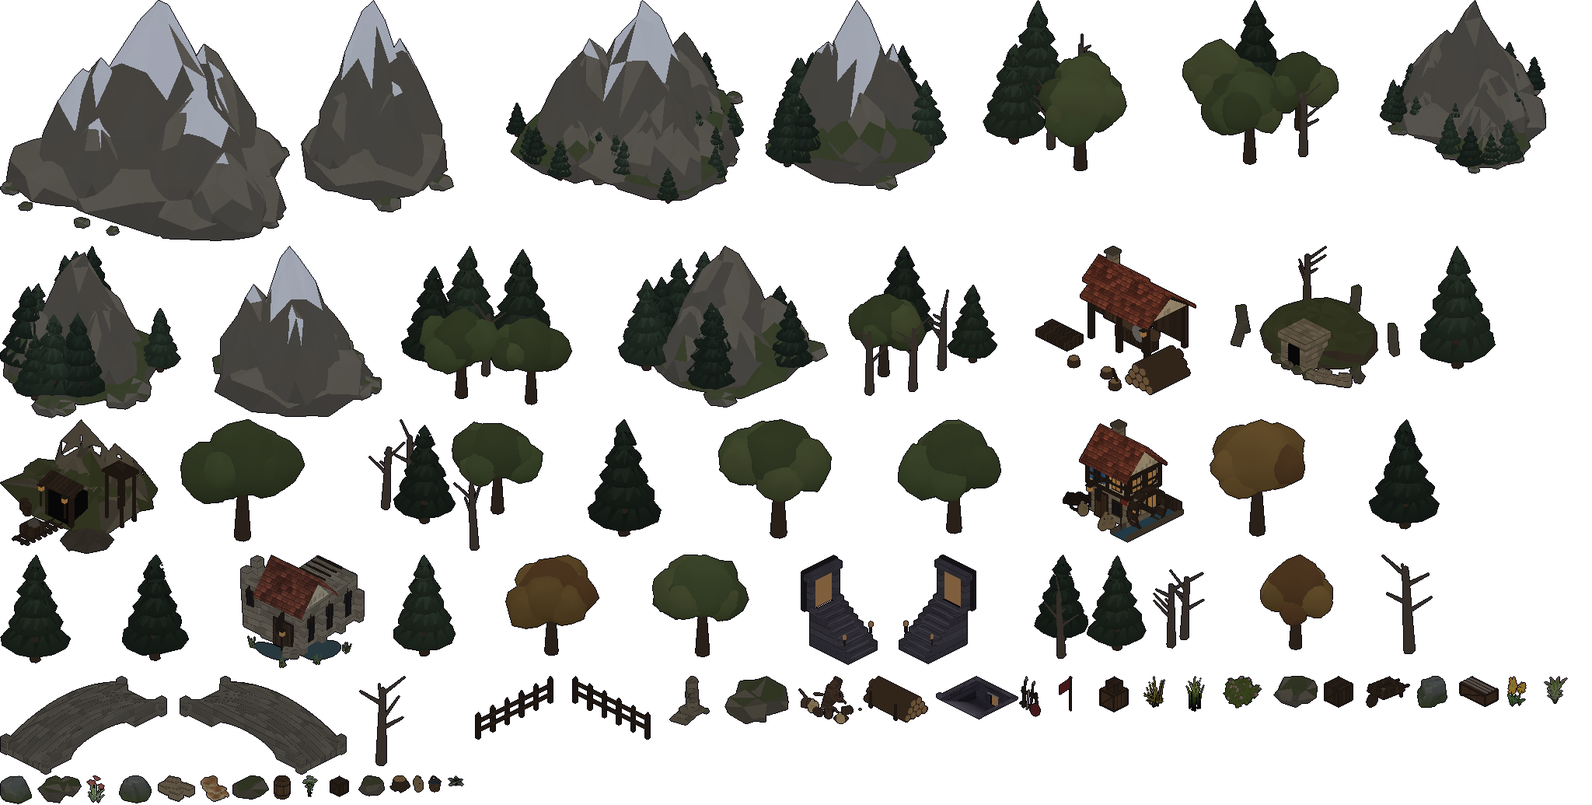
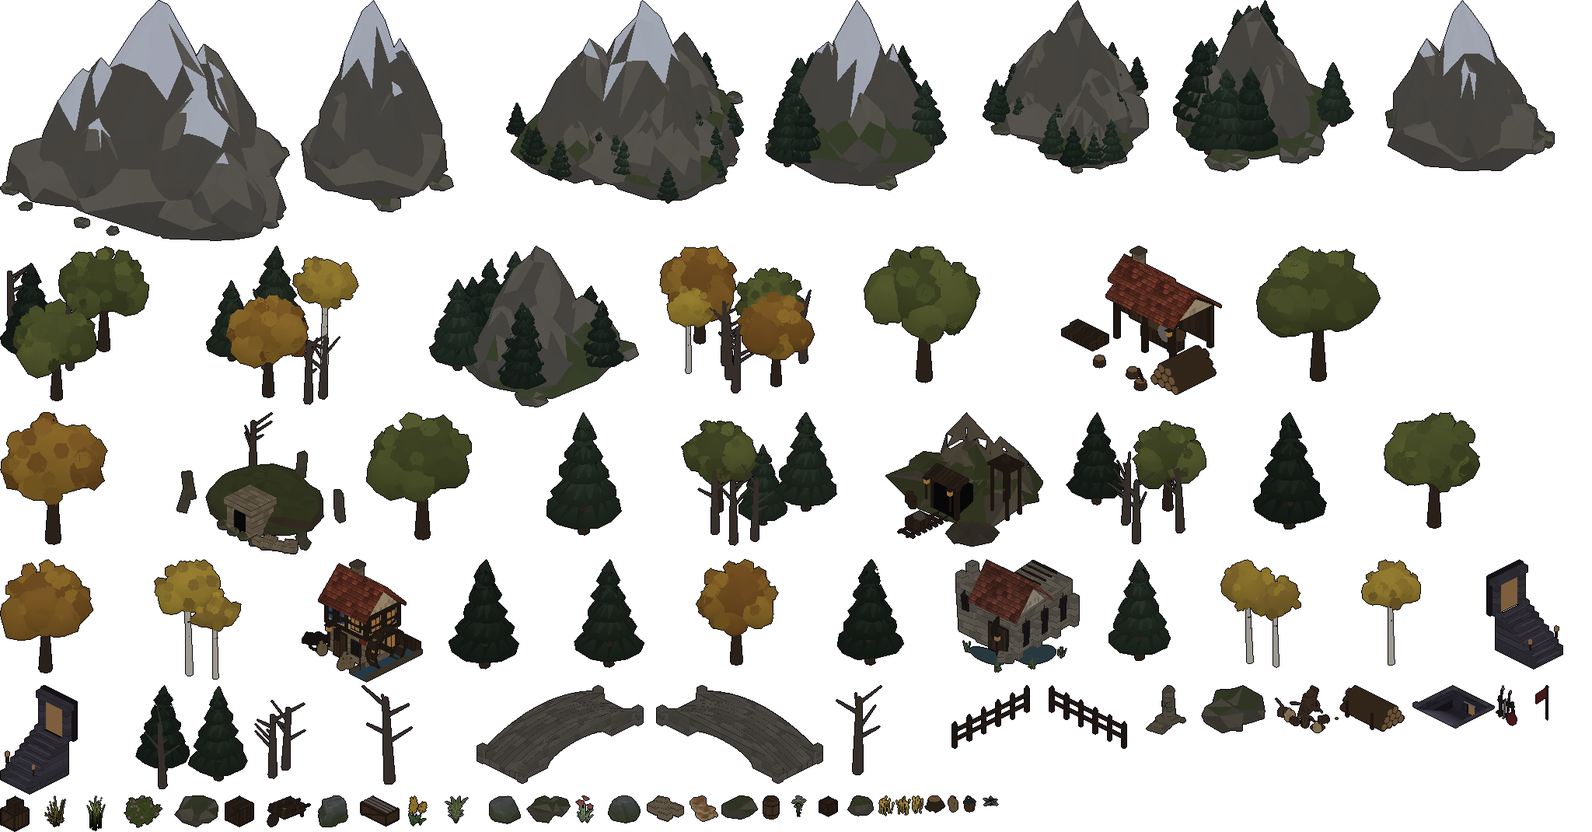
Critic pass 11d: leafy crowns, birches, standing wheat, ochre grass
Broadleaf crowns are a few smooth lobes under ~30 faceted leaf clumps,
toned from a dark underside to a lit top, in olive-to-gold and amber;
birches (pale trunks, gold crowns) as singles and one broadleaf in five
in the groves; wheat tufts in rows on every field's furrows (own stream,
before the undergrowth: 64 on the Vale, 120 in Thornwick). The Vale's
three fields, dropped by pass 10's road rewrite, are restored with a
test. Grass olive toward ochre; the day's saturation grade eased 1.28 ->
1.12 (warm leaves and grass overshot).

Six frames (reference): luminance 0.41-0.49 (0.40), saturation
0.47-0.61 (0.49), colourfulness 0.22-0.29 (0.23), warmth 0.25-0.32
(0.25), woods edge density 3.5 -> 4.1 (4.6). Rubric 5.7 -> 6.2.
npm run check: 263 pass, SMOKE_OK, RENDER_SMOKE_OK.

Claude-Session: https://claude.ai/code/session_015iJE9saRx1hCYJHRMUYeGn

diff --git a/src/sim/envfoot.js b/src/sim/envfoot.js
@@ -1,4 +1,4 @@
 // envfoot.js — GENERATED by tools/actor-lab/bake-env.cjs. Do not edit.
 // Ground footprint of each baked environment sprite, in tiles relative to its
 // origin: [x0, y0, x1, y1]. Used for collision and placement.
-export const ENV_FOOT = {"pine_1":[-4.13,-4.18,4.39,4.34],"pine_2":[-4.81,-4.8,5.12,5],"pine_3":[-4.98,-5.01,5,4.96],"pine_4":[-5.13,-5.38,5.48,5.19],"pine_5":[-4.8,-4.87,4.86,4.58],"pine_6":[-4.76,-4.68,4.81,4.84],"oak_1":[-6.76,-5.9,5.88,5.84],"oak_2":[-5.8,-4.63,4.64,4.88],"oak_3":[-5.69,-5.27,5.8,5.97],"oak_4":[-6.23,-6.82,5.95,6.39],"autumn_1":[-6.59,-6.17,5.5,4.97],"autumn_2":[-4.61,-5.31,5.15,5.55],"autumn_3":[-4.46,-4.55,4.68,4.38],"dead_1":[-2.24,-2.81,2.66,2.62],"dead_2":[-2.56,-1.87,2.98,3.05],"grove_1":[-11.53,-9.43,8.02,10.31],"grove_2":[-10.59,-7.13,5.79,8.69],"grove_3":[-10.28,-8.9,11.4,8.77],"grove_4":[-10.38,-9.21,11.97,9.49],"grove_5":[-9.37,-11.42,6.66,5.03],"grove_6":[-11.39,-10.53,6.01,9.08],"bridge_0":[-3.6,-9.7,3.6,9.7],"bridge_90":[-9.7,-3.6,9.7,3.6],"rock_A":[-2.18,-2.03,2.19,2.41],"rock_B":[-2.03,-2.12,2.06,1.97],"rock_C":[-3.06,-3.35,3.32,3.55],"rock_D":[-2.7,-3.56,2.22,2.22],"rock_E":[-3.72,-3.84,4.19,6.22],"mountain_A_grass_trees":[-10.67,-10.54,11.17,11.99],"mountain_B_grass_trees":[-12.25,-12.31,11.91,11.79],"mountain_C_grass_trees":[-11.39,-10.97,11.31,12.47],"mountain_A":[-10,-10.64,10.64,10.58],"mountain_B":[-11.58,-11.7,12.29,12.11],"mountain_massif_A":[-37.07,-33.75,43.44,35.17],"mountain_massif_B":[-30.31,-33,30.17,32.15],"mountain_massif_C":[-24.46,-24.21,25.04,24.61],"ruin":[-9.37,-9.66,9.14,6.89],"mine_0":[-11.55,-10.95,8.49,11.1],"lumbermill_90":[-10.3,-7.1,9.4,8.9],"barrel":[-0.89,-0.94,0.89,0.94],"crate_A_big":[-1.12,-1.12,1.12,1.19],"crate_A_small":[-0.72,-0.72,0.72,0.79],"crate_B_big":[-1.12,-1.12,1.12,1.19],"crate_long_A":[-2.02,-1.02,2.02,1.09],"sack":[-0.62,-0.49,1.25,1.36],"wheelbarrow":[-1.32,-2.69,1.32,3.23],"weaponrack":[-1.2,-0.19,2.1,0.81],"bucket_water":[-0.65,-0.65,0.65,0.65],"resource_lumber":[-3.33,-1.78,3.33,2.15],"resource_stone":[-1.7,-1.97,1.75,0.83],"flag_red":[-0.16,-0.12,0.16,1.84],"stump":[-1.06,-1.15,1.12,1.1],"fence_0":[-0.25,-6.05,0.3,6.05],"fence_90":[-6.05,-0.3,6.05,0.25],"stairsup_0":[-2.6,-4.15,2.6,3.1],"stairsup_90":[-4.15,-2.6,3.1,2.6],"stairsdown_0":[-3.38,-3.8,3.38,3.01],"watermill_0":[-6.12,-4.3,5.3,5.38],"chapelruin_0":[-6.67,-5.7,7.63,8.85],"milestone_0":[-1.68,-1.61,1.66,3.1],"wagon_0":[-4.9,-1.55,4.09,3.62],"ug_bush":[-2.03,-2.14,2.18,2.18],"ug_fern":[-3.54,-3.27,3.7,3.52],"ug_plant":[-1.95,-2.32,2.09,2.06],"ug_flowers_1":[-0.86,-1.12,1.22,1.11],"ug_flowers_2":[-1.3,-0.89,1.19,1.02],"ug_grass_1":[-1.48,-1.64,1.6,1.55],"ug_grass_2":[-0.81,-0.96,0.98,1.03],"ug_clover":[-1,-0.94,0.7,0.73],"ug_mushroom":[-1.62,-0.82,1.79,1.94],"rock_F":[-2.07,-1.38,1.8,2.21],"rock_G":[-2.06,-1.39,1.6,1.58],"rock_H":[-2.19,-1.07,1.91,3.1],"vale_tavern_1":[-8.45,-6.72,7.25,6.3],"vale_inn_1":[-7.1,-4.4,10.48,5.1],"vale_shop_1":[-4.2,-4.2,5.72,5.07],"vale_temple_1":[-6.7,-6.95,4.5,7.84],"vale_well_1":[-2.1,-1.8,2.1,1.8],"vale_house_1":[-4.7,-4,4.7,4],"vale_house_2":[-4.7,-4,4.7,4],"vale_house_3":[-4.7,-4,4.7,4],"vale_housex_1":[-4,-4.7,4,4.7],"vale_housex_2":[-4,-4.7,4,4.7],"vale_farm_1":[-9.63,-5.7,9.77,7.63],"vale_farmx_1":[-5.7,-9.77,7.63,9.63],"vale_keep_1":[-6.37,-6.45,6.37,6.45],"vale_wall_1":[-11,-1.7,11,2.1],"vale_smith_1":[-4.3,-5.36,4.8,5.2],"vale_curtain_1":[-10.09,-2,10.15,2],"vale_curtainy_1":[-2,-10.15,2,10.09],"vale_tower_1":[-4.1,-4.1,4.1,4.1],"vale_gatehousey_1":[-3,-7.5,3,7.5],"fens_tavern_1":[-8.45,-6.72,7.25,6.3],"fens_inn_1":[-7.1,-4.4,10.48,5.1],"fens_shop_1":[-4.2,-4.2,5.72,5.07],"fens_temple_1":[-6.7,-6.95,4.5,7.84],"fens_well_1":[-2.1,-1.8,2.1,1.8],"fens_house_1":[-4.7,-4,4.7,4],"fens_house_2":[-4.7,-4,4.7,4],"fens_house_3":[-4.7,-4,4.7,4],"fens_housex_1":[-4,-4.7,4,4.7],"fens_housex_2":[-4,-4.7,4,4.7],"fens_farm_1":[-9.63,-5.7,9.77,7.63],"fens_farmx_1":[-5.7,-9.77,7.63,9.63],"fens_keep_1":[-6.37,-6.45,6.37,6.45],"fens_wall_1":[-11,-1.7,11,2.1],"fens_smith_1":[-4.3,-5.36,4.8,5.2],"fens_curtain_1":[-10,-1.6,10.3,1.6],"fens_curtainy_1":[-1.6,-10.3,1.6,10],"fens_tower_1":[-3.7,-3.8,3.7,3.8],"fens_gatehousey_1":[-3,-7,5.7,7],"reach_tavern_1":[-8.45,-6.72,7.25,6.3],"reach_inn_1":[-7.1,-4.4,10.48,5.1],"reach_shop_1":[-4.2,-4.2,5.72,5.07],"reach_temple_1":[-6.7,-6.95,4.5,7.84],"reach_well_1":[-2.1,-1.8,2.1,1.8],"reach_house_1":[-4.7,-4,4.7,4],"reach_house_2":[-4.7,-4,4.7,4],"reach_house_3":[-4.7,-4,4.7,4],"reach_housex_1":[-4,-4.7,4,4.7],"reach_housex_2":[-4,-4.7,4,4.7],"reach_farm_1":[-9.63,-5.7,9.77,7.63],"reach_farmx_1":[-5.7,-9.77,7.63,9.63],"reach_keep_1":[-6.37,-6.45,6.37,6.45],"reach_wall_1":[-11,-1.7,11,2.1],"reach_smith_1":[-4.3,-5.36,4.8,5.2],"reach_curtain_1":[-10,-1.6,10.3,1.6],"reach_curtainy_1":[-1.6,-10.3,1.6,10],"reach_tower_1":[-3.7,-3.8,3.7,3.8],"reach_gatehousey_1":[-3,-7,5.7,7],"heights_tavern_1":[-8.45,-6.72,7.25,6.3],"heights_inn_1":[-7.1,-4.4,10.48,5.1],"heights_shop_1":[-4.2,-4.2,5.72,5.07],"heights_temple_1":[-6.7,-6.95,4.5,7.84],"heights_well_1":[-2.1,-1.8,2.1,1.8],"heights_house_1":[-4.7,-4,4.7,4],"heights_house_2":[-4.7,-4,4.7,4],"heights_house_3":[-4.7,-4,4.7,4],"heights_housex_1":[-4,-4.7,4,4.7],"heights_housex_2":[-4,-4.7,4,4.7],"heights_farm_1":[-9.63,-5.7,9.77,7.63],"heights_farmx_1":[-5.7,-9.77,7.63,9.63],"heights_keep_1":[-6.37,-6.45,6.37,6.45],"heights_wall_1":[-11,-1.7,11,2.1],"heights_smith_1":[-4.3,-5.36,4.8,5.2],"heights_curtain_1":[-10,-1.6,10.3,1.6],"heights_curtainy_1":[-1.6,-10.3,1.6,10],"heights_tower_1":[-3.7,-3.8,3.7,3.8],"heights_gatehousey_1":[-3,-7,5.7,7]};
+export const ENV_FOOT = {"pine_1":[-4.13,-4.18,4.39,4.34],"pine_2":[-4.81,-4.8,5.12,5],"pine_3":[-4.98,-5.01,5,4.96],"pine_4":[-5.13,-5.38,5.48,5.19],"pine_5":[-4.8,-4.87,4.86,4.58],"pine_6":[-4.76,-4.68,4.81,4.84],"oak_1":[-6.75,-7.14,6.33,6.1],"oak_2":[-5.79,-6.35,5.76,6.08],"oak_3":[-6.48,-6.65,6.29,5.96],"oak_4":[-6.59,-6.8,6.43,6.89],"autumn_1":[-6.59,-6.88,6.22,6.33],"autumn_2":[-5.57,-5.73,5.51,5.75],"autumn_3":[-5.1,-5.47,5.08,5.06],"birch_1":[-4.93,-3.24,2.73,4.21],"birch_2":[-4.81,-4.29,4.6,3.62],"birch_3":[-5.17,-3.57,4.88,4.81],"dead_1":[-2.24,-2.81,2.66,2.62],"dead_2":[-2.56,-1.87,2.98,3.05],"grove_1":[-9.86,-8.38,6.88,6.28],"grove_2":[-10.59,-7.13,5.79,8.69],"grove_3":[-10.94,-8,11.15,9.36],"grove_4":[-10.79,-8.1,8.04,10.5],"grove_5":[-9.42,-11.89,11.01,10.13],"grove_6":[-7.78,-9.39,8.91,8.76],"bridge_0":[-3.6,-9.7,3.6,9.7],"bridge_90":[-9.7,-3.6,9.7,3.6],"rock_A":[-2.18,-2.03,2.19,2.41],"rock_B":[-2.03,-2.12,2.06,1.97],"rock_C":[-3.06,-3.35,3.32,3.55],"rock_D":[-2.7,-3.56,2.22,2.22],"rock_E":[-3.72,-3.84,4.19,6.22],"mountain_A_grass_trees":[-10.67,-10.54,11.17,11.99],"mountain_B_grass_trees":[-12.25,-12.31,11.91,11.79],"mountain_C_grass_trees":[-11.39,-10.97,11.31,12.47],"mountain_A":[-10,-10.64,10.64,10.58],"mountain_B":[-11.58,-11.7,12.29,12.11],"mountain_massif_A":[-37.07,-33.75,43.44,35.17],"mountain_massif_B":[-30.31,-33,30.17,32.15],"mountain_massif_C":[-24.46,-24.21,25.04,24.61],"ruin":[-9.37,-9.66,9.14,6.89],"mine_0":[-11.55,-10.95,8.49,11.1],"lumbermill_90":[-10.3,-7.1,9.4,8.9],"barrel":[-0.89,-0.94,0.89,0.94],"crate_A_big":[-1.12,-1.12,1.12,1.19],"crate_A_small":[-0.72,-0.72,0.72,0.79],"crate_B_big":[-1.12,-1.12,1.12,1.19],"crate_long_A":[-2.02,-1.02,2.02,1.09],"sack":[-0.62,-0.49,1.25,1.36],"wheelbarrow":[-1.32,-2.69,1.32,3.23],"weaponrack":[-1.2,-0.19,2.1,0.81],"bucket_water":[-0.65,-0.65,0.65,0.65],"resource_lumber":[-3.33,-1.78,3.33,2.15],"resource_stone":[-1.7,-1.97,1.75,0.83],"flag_red":[-0.16,-0.12,0.16,1.84],"stump":[-1.06,-1.15,1.12,1.1],"fence_0":[-0.25,-6.05,0.3,6.05],"fence_90":[-6.05,-0.3,6.05,0.25],"stairsup_0":[-2.6,-4.15,2.6,3.1],"stairsup_90":[-4.15,-2.6,3.1,2.6],"stairsdown_0":[-3.38,-3.8,3.38,3.01],"watermill_0":[-6.12,-4.3,5.3,5.38],"chapelruin_0":[-6.67,-5.7,7.63,8.85],"milestone_0":[-1.68,-1.61,1.66,3.1],"wagon_0":[-4.9,-1.55,4.09,3.62],"ug_bush":[-2.03,-2.14,2.18,2.18],"ug_fern":[-3.54,-3.27,3.7,3.52],"ug_plant":[-1.95,-2.32,2.09,2.06],"ug_flowers_1":[-0.86,-1.12,1.22,1.11],"ug_flowers_2":[-1.3,-0.89,1.19,1.02],"ug_grass_1":[-1.48,-1.64,1.6,1.55],"ug_grass_2":[-0.81,-0.96,0.98,1.03],"ug_clover":[-1,-0.94,0.7,0.73],"ug_mushroom":[-1.62,-0.82,1.79,1.94],"rock_F":[-2.07,-1.38,1.8,2.21],"rock_G":[-2.06,-1.39,1.6,1.58],"rock_H":[-2.19,-1.07,1.91,3.1],"wheat_1":[-0.69,-0.8,0.76,0.68],"wheat_2":[-0.71,-0.84,0.73,0.93],"wheat_3":[-0.9,-0.69,0.81,0.84],"vale_tavern_1":[-8.45,-6.72,7.25,6.3],"vale_inn_1":[-7.1,-4.4,10.48,5.1],"vale_shop_1":[-4.2,-4.2,5.72,5.07],"vale_temple_1":[-6.7,-6.95,4.5,7.84],"vale_well_1":[-2.1,-1.8,2.1,1.8],"vale_house_1":[-4.7,-4,4.7,4],"vale_house_2":[-4.7,-4,4.7,4],"vale_house_3":[-4.7,-4,4.7,4],"vale_housex_1":[-4,-4.7,4,4.7],"vale_housex_2":[-4,-4.7,4,4.7],"vale_farm_1":[-9.63,-5.7,9.77,7.63],"vale_farmx_1":[-5.7,-9.77,7.63,9.63],"vale_keep_1":[-6.37,-6.45,6.37,6.45],"vale_wall_1":[-11,-1.7,11,2.1],"vale_smith_1":[-4.3,-5.36,4.8,5.2],"vale_curtain_1":[-10.09,-2,10.15,2],"vale_curtainy_1":[-2,-10.15,2,10.09],"vale_tower_1":[-4.1,-4.1,4.1,4.1],"vale_gatehousey_1":[-3,-7.5,3,7.5],"fens_tavern_1":[-8.45,-6.72,7.25,6.3],"fens_inn_1":[-7.1,-4.4,10.48,5.1],"fens_shop_1":[-4.2,-4.2,5.72,5.07],"fens_temple_1":[-6.7,-6.95,4.5,7.84],"fens_well_1":[-2.1,-1.8,2.1,1.8],"fens_house_1":[-4.7,-4,4.7,4],"fens_house_2":[-4.7,-4,4.7,4],"fens_house_3":[-4.7,-4,4.7,4],"fens_housex_1":[-4,-4.7,4,4.7],"fens_housex_2":[-4,-4.7,4,4.7],"fens_farm_1":[-9.63,-5.7,9.77,7.63],"fens_farmx_1":[-5.7,-9.77,7.63,9.63],"fens_keep_1":[-6.37,-6.45,6.37,6.45],"fens_wall_1":[-11,-1.7,11,2.1],"fens_smith_1":[-4.3,-5.36,4.8,5.2],"fens_curtain_1":[-10,-1.6,10.3,1.6],"fens_curtainy_1":[-1.6,-10.3,1.6,10],"fens_tower_1":[-3.7,-3.8,3.7,3.8],"fens_gatehousey_1":[-3,-7,5.7,7],"reach_tavern_1":[-8.45,-6.72,7.25,6.3],"reach_inn_1":[-7.1,-4.4,10.48,5.1],"reach_shop_1":[-4.2,-4.2,5.72,5.07],"reach_temple_1":[-6.7,-6.95,4.5,7.84],"reach_well_1":[-2.1,-1.8,2.1,1.8],"reach_house_1":[-4.7,-4,4.7,4],"reach_house_2":[-4.7,-4,4.7,4],"reach_house_3":[-4.7,-4,4.7,4],"reach_housex_1":[-4,-4.7,4,4.7],"reach_housex_2":[-4,-4.7,4,4.7],"reach_farm_1":[-9.63,-5.7,9.77,7.63],"reach_farmx_1":[-5.7,-9.77,7.63,9.63],"reach_keep_1":[-6.37,-6.45,6.37,6.45],"reach_wall_1":[-11,-1.7,11,2.1],"reach_smith_1":[-4.3,-5.36,4.8,5.2],"reach_curtain_1":[-10,-1.6,10.3,1.6],"reach_curtainy_1":[-1.6,-10.3,1.6,10],"reach_tower_1":[-3.7,-3.8,3.7,3.8],"reach_gatehousey_1":[-3,-7,5.7,7],"heights_tavern_1":[-8.45,-6.72,7.25,6.3],"heights_inn_1":[-7.1,-4.4,10.48,5.1],"heights_shop_1":[-4.2,-4.2,5.72,5.07],"heights_temple_1":[-6.7,-6.95,4.5,7.84],"heights_well_1":[-2.1,-1.8,2.1,1.8],"heights_house_1":[-4.7,-4,4.7,4],"heights_house_2":[-4.7,-4,4.7,4],"heights_house_3":[-4.7,-4,4.7,4],"heights_housex_1":[-4,-4.7,4,4.7],"heights_housex_2":[-4,-4.7,4,4.7],"heights_farm_1":[-9.63,-5.7,9.77,7.63],"heights_farmx_1":[-5.7,-9.77,7.63,9.63],"heights_keep_1":[-6.37,-6.45,6.37,6.45],"heights_wall_1":[-11,-1.7,11,2.1],"heights_smith_1":[-4.3,-5.36,4.8,5.2],"heights_curtain_1":[-10,-1.6,10.3,1.6],"heights_curtainy_1":[-1.6,-10.3,1.6,10],"heights_tower_1":[-3.7,-3.8,3.7,3.8],"heights_gatehousey_1":[-3,-7,5.7,7]};

diff --git a/tools/actor-lab/buildkit.js b/tools/actor-lab/buildkit.js
@@ -520,7 +520,8 @@ const TYPES = {
 // ── trees (our own, to replace the stock cones): pine, broadleaf, dead, groves ──
 const flat = (color) => new THREE.MeshStandardMaterial({ color: new THREE.Color(color), flatShading: true });
 const jitter = (geo, r, amt) => { const p = geo.attributes.position; for (let i = 0; i < p.count; i++) p.setXYZ(i, p.getX(i) + (r() - 0.5) * amt, p.getY(i) + (r() - 0.5) * amt * 0.6, p.getZ(i) + (r() - 0.5) * amt); geo.computeVertexNormals(); return geo; };
-const TREE_COL = { pine: ['#1f2b22', '#243226', '#2a392b'], leaf: ['#3a4527', '#42502c', '#4b5530'], autumn: ['#6a4f25', '#76582a', '#5e3f21'], bark: '#3a2c22', dead: '#4a4038' };
+// leaf: olive toward gold, autumn: amber and rust, birch: gold (pass 11d: the reference's autumn harmony)
+const TREE_COL = { pine: ['#1f2b22', '#243226', '#2a392b'], leaf: ['#4a5226', '#56602b', '#646a30'], autumn: ['#9a6a22', '#a87a26', '#8a5a1e'], birch: ['#a8872a', '#b8962e', '#97762a'], bark: '#3a2c22', dead: '#4a4038' };
 // Foliage (critic pass 2: faceted gem-like crowns clashed with the buildings): closed,
 // softly-shaded masses. Geometry is vertex-merged BEFORE jittering so faces never crack
 // apart, shaded smooth, and vertex-coloured from a dark self-shadowed underside to a lighter
@@ -555,12 +556,35 @@ function broadleaf(g, r, x, z, sc = 1, autumn = false) {
   const t = new THREE.Group(); t.position.set(x, 0, z); t.scale.setScalar(sc); g.add(t);
   const trunk = new THREE.Mesh(new THREE.CylinderGeometry(0.034, 0.064, 0.44, 7), flat(TREE_COL.bark)); trunk.position.y = 0.22; t.add(trunk);
   for (const a of [0.6, 2.7, 4.6]) { const b = new THREE.Mesh(new THREE.CylinderGeometry(0.012, 0.024, 0.2, 5), flat(TREE_COL.bark)); b.position.set(Math.cos(a) * 0.05, 0.44, Math.sin(a) * 0.05); b.rotation.set(Math.sin(a) * 0.7, 0, -Math.cos(a) * 0.7); t.add(b); }
-  const pal = autumn ? TREE_COL.autumn : TREE_COL.leaf, n = 7 + ((r() * 4) | 0);
-  for (let i = 0; i < n; i++) {                            // a cloud of rounded clumps: big core, smaller lobes around and on top
-    const a = (i / n) * Math.PI * 2 + r(), rr = i === 0 ? 0 : 0.17 + r() * 0.1, size = i === 0 ? 0.3 : 0.15 + r() * 0.09;   // a broad crown, not a lollipop
+  leafCrown(t, r, autumn ? TREE_COL.autumn : TREE_COL.leaf, 0.66, 0.3, 7 + ((r() * 4) | 0));
+}
+// A crown of leaf clusters (critic pass 11d, scored against the owner's reference: our crowns were a few smooth
+// blobs; its are many small leaf clumps, each lit on top and dark beneath). A few smooth lobes still give the
+// mass; over them, faceted clumps (icosahedra, one flat normal a face) toned from a dark underside to a lit crown.
+const leafMat = new THREE.MeshStandardMaterial({ vertexColors: true, flatShading: true, roughness: 1 });
+function leafCrown(t, r, pal, cy, R, lobes, clumps = 30) {
+  for (let i = 0; i < lobes; i++) {                        // the mass: a broad core, lobes around and on top
+    const a = (i / lobes) * Math.PI * 2 + r(), rr = i === 0 ? 0 : R * (0.55 + r() * 0.35), size = i === 0 ? R : R * (0.5 + r() * 0.3);
     const b = new THREE.Mesh(foliage(new THREE.IcosahedronGeometry(size, 1), r, size * 0.22, pal[(r() * 3) | 0]), foliageMat);
-    b.position.set(Math.cos(a) * rr, 0.6 + (i === 0 ? 0.1 : r() * 0.18 - 0.06), Math.sin(a) * rr); t.add(b);
+    b.position.set(Math.cos(a) * rr, cy + (i === 0 ? R * 0.3 : r() * R * 0.6 - R * 0.2), Math.sin(a) * rr); t.add(b);
   }
+  for (let i = 0; i < clumps; i++) {                       // the clumps, over the mass's skin (not underneath: unseen)
+    const u = r() * 1.5 - 0.5, a = r() * Math.PI * 2, ring = Math.sqrt(Math.max(0, 1 - u * u)), size = R * (0.2 + r() * 0.14);
+    const px = Math.cos(a) * ring * R * 1.2, py = cy + R * 0.3 + u * R * 1.05, pz = Math.sin(a) * ring * R * 1.2;
+    const geo = new THREE.IcosahedronGeometry(size, 0), p = geo.attributes.position, col = new Float32Array(p.count * 3);
+    const c = new THREE.Color(pal[(r() * 3) | 0]), lit = 0.7 + 0.75 * Math.min(1, Math.max(0, (u + 0.5) / 1.5)) * (0.9 + r() * 0.2);
+    for (let v = 0; v < p.count; v++) { p.setXYZ(v, p.getX(v) * (0.85 + r() * 0.3), p.getY(v) * (0.8 + r() * 0.3), p.getZ(v) * (0.85 + r() * 0.3)); col[v * 3] = c.r * lit; col[v * 3 + 1] = c.g * lit; col[v * 3 + 2] = c.b * lit; }
+    geo.setAttribute('color', new THREE.BufferAttribute(col, 3)); geo.computeVertexNormals();
+    const m = new THREE.Mesh(geo, leafMat); m.position.set(px, py, pz); m.rotation.set(r() * 3, r() * 3, r() * 3); t.add(m);
+  }
+}
+// A birch (pass 11d: the reference's white trunks): slim, a pale bark with dark marks, a light crown, gold in autumn.
+function birch(g, r, x, z, sc = 1, autumn = true) {
+  const t = new THREE.Group(); t.position.set(x, 0, z); t.scale.setScalar(sc); g.add(t);
+  const bark = flat('#d9d4c6'), mark = flat('#2e2a26');
+  const trunk = new THREE.Mesh(new THREE.CylinderGeometry(0.018, 0.03, 0.72, 6), bark); trunk.position.y = 0.36; trunk.rotation.z = (r() - 0.5) * 0.12; t.add(trunk);
+  for (let i = 0; i < 5; i++) { const k = new THREE.Mesh(new THREE.BoxGeometry(0.034, 0.012, 0.034), mark); k.position.set(0, 0.1 + i * 0.12 + r() * 0.04, 0); k.rotation.y = r() * 3; t.add(k); }
+  leafCrown(t, r, autumn ? TREE_COL.birch : TREE_COL.leaf, 0.74, 0.19, 4, 22);
 }
 function deadTree(g, r, x, z, sc = 1) {
   const t = new THREE.Group(); t.position.set(x, 0, z); t.scale.setScalar(sc); g.add(t);
@@ -573,6 +597,7 @@ const TREES = {
   oak: (g, r) => broadleaf(g, r, 0, 0, 1.15 + r() * 0.3),
   autumn: (g, r) => broadleaf(g, r, 0, 0, 1.1 + r() * 0.3, true),
   dead: (g, r) => deadTree(g, r, 0, 0, 1.2 + r() * 0.2),
+  birch: (g, r) => { birch(g, r, -0.12, 0.05, 1.2 + r() * 0.2); if (r() < 0.7) birch(g, r, 0.16, -0.1, 0.95 + r() * 0.2); },   // a pair, as they grow
   // a clump of 5–8 mixed trees. Critic pass 10: trees set inside each other's crowns baked a pine's dark tiers
   // through an oak's crown, so each keeps its crown's room (a pine 0.29 × scale, a broadleaf 0.42 × scale), and
   // the pines stand toward the back (−x −z: away from the camera), the broadleaves in front
@@ -585,7 +610,7 @@ const TREES = {
       if (kind === 'pine' && x + z > 0.2) { x -= 0.35; z -= 0.35; }                 // pines to the back
       if (placed.some((q) => Math.hypot(q.x - x, q.z - z) < (q.rad + rad) * 0.85)) continue;
       placed.push({ x, z, rad }); i++;
-      if (kind === 'pine') pine(g, r, x, z, sc); else if (kind === 'leaf') broadleaf(g, r, x, z, sc, r() < 0.3); else deadTree(g, r, x, z, 1);
+      if (kind === 'pine') pine(g, r, x, z, sc); else if (kind === 'leaf') { const k2 = r(); if (k2 < 0.2) birch(g, r, x, z, sc * 1.1); else broadleaf(g, r, x, z, sc, k2 < 0.5); } else deadTree(g, r, x, z, 1);
     }
   },
 };
@@ -681,7 +706,20 @@ function bridgeMesh(r) {
   for (const sz of [-1, 1]) for (const sx of [-1, 1]) box(0.08, 0.2, 0.08, stone, sx * (W / 2 + 0.01), 0, sz * (L - 0.02), g);   // end posts
   return g;
 }
+// A tuft of wheat (critic pass 11d: the reference's fields are volumes of stalks, ours flat stripes): stalks leaning
+// a little, each with its ear, toned from straw at the foot to gold at the ears.
+function wheatMesh(r, v) {
+  const g = new THREE.Group(), n = 16 + v * 3, straw = flat('#9a8442'), ears = ['#c9a646', '#d6b552', '#b8933c'].map((c) => flat(c));
+  for (let i = 0; i < n; i++) {
+    const a = r() * 6.28, d = Math.sqrt(r()) * 0.07, h = 0.1 + r() * 0.05, lean = (r() - 0.5) * 0.35;
+    const st = new THREE.Group(); st.position.set(Math.cos(a) * d, 0, Math.sin(a) * d); st.rotation.set(lean, r() * 3, lean * 0.6); g.add(st);
+    const stalk = new THREE.Mesh(new THREE.CylinderGeometry(0.003, 0.004, h, 3), straw); stalk.position.y = h / 2; st.add(stalk);
+    const ear = new THREE.Mesh(new THREE.CylinderGeometry(0.008, 0.006, 0.035, 4), ears[(r() * 3) | 0]); ear.position.y = h + 0.012; st.add(ear);
+  }
+  return g;
+}
 const NATURE = {
+  wheat: (r, v) => wheatMesh(r, v),
   bridge: (r) => bridgeMesh(r),
   rock: (r, v) => { const g = new THREE.Group(), n = [1, 1, 2, 3, 2][v % 5], big = [0.2, 0.14, 0.24, 0.18, 0.32][v % 5];
     for (let i = 0; i < n; i++) { const m = rockMesh(r, big * (i ? 0.55 + r() * 0.3 : 1), 0.55 + r() * 0.25); m.position.x = i ? (r() - 0.5) * big * 2.2 : 0; m.position.z = i ? (r() - 0.5) * big * 2.2 : 0; m.rotation.y = r() * 6; g.add(m); }

diff --git a/src/sim/outdoor.js b/src/sim/outdoor.js
@@ -175,7 +175,7 @@ function putWall(o, id, alongX, at, a, b) {
 }
 function putProp(o, kind, x, y) { o.props.set(Math.floor(x) + ',' + Math.floor(y), kind); const i = gi(o, x, y); if (i >= 0) o.occ[i] = 1; }
 
-const TREE_SINGLE = ['pine_1', 'pine_2', 'pine_3', 'pine_4', 'pine_5', 'pine_6', 'oak_1', 'oak_2', 'oak_3', 'oak_4', 'autumn_1', 'autumn_2', 'autumn_3', 'dead_1', 'dead_2'];
+const TREE_SINGLE = ['pine_1', 'pine_2', 'pine_3', 'pine_4', 'pine_5', 'pine_6', 'oak_1', 'oak_2', 'oak_3', 'oak_4', 'autumn_1', 'autumn_2', 'autumn_3', 'birch_1', 'birch_2', 'birch_3', 'dead_1', 'dead_2'];   // (birches: critic pass 11d)
 const TREE_CLUSTER = ['grove_1', 'grove_2', 'grove_3', 'grove_4', 'grove_5', 'grove_6'];
 const ROCKS = ['rock_F', 'rock_G', 'rock_H'];        // the nature pack's (docs/nature-pack-proposal.md); rock_A..E stay at the barrows
 // The undergrowth (Quaternius' Stylized Nature MegaKit, CC0): LOW is walked through (flowers, grass, ferns, clover,
@@ -212,6 +212,21 @@ function undergrowth(o, x0, y0, x1, y1, step, density) {
     for (let k = 0, n = 1 + Math.floor(rng() * 3); k < n; k++) {
       const a = (rng() - 0.5) * 2.2 + Math.PI / 4, dist = rad * (0.7 + rng() * 0.5), x = t.x + cos(a) * dist, y = t.y + sin(a) * dist, id = pick(rng, FOOT);
       if (density(x, y) >= 0 && fits(o, id, x, y, 0.1)) put(o, id, x, y, 'none', 0.35);
+    }
+  }
+}
+
+// Wheat on the fields (critic pass 11d: the reference's fields stand up, ours were painted stripes): tufts in rows
+// along the field's furrows, walked through. Its own stream; placed before the undergrowth, which then grows round it.
+const WHEAT = ['wheat_1', 'wheat_2', 'wheat_3'];
+function wheat(o) {
+  const rng = mulberry32(streamSeed(o.seed, 4416));
+  for (const f of o.fields) {
+    const X = f.axis === 'x', rows = X ? f.y1 - f.y0 : f.x1 - f.x0, cols = X ? f.x1 - f.x0 : f.y1 - f.y0;
+    for (let r0 = 0.75; r0 < rows - 0.5; r0 += 1.5) for (let c0 = 0.8; c0 < cols - 0.5; c0 += 1.25) {   // a row on each furrow's crest (outdoorpaint: 1.5 apart)
+      const x = X ? f.x0 + c0 : f.x0 + r0, y = X ? f.y0 + r0 : f.y0 + c0;
+      const jx = x + (rng() - 0.5) * 0.4, jy = y + (rng() - 0.5) * 0.25, id = pick(rng, WHEAT);
+      if (fits(o, id, jx, jy, 0)) put(o, id, jx, jy, 'none');
     }
   }
 }
@@ -309,6 +324,7 @@ function buildTown(seed, region) {
     return n > 0.55 && rng() < 0.4 ? pick(rng, TREE_SINGLE) : rng() < 0.05 ? pick(rng, ROCKS) : null;
   });
   forestRing(o, rng, 10);
+  wheat(o);
   // the undergrowth: the walls' verges (in and out), the stream's banks, the gardens, flower patches; never the square
   undergrowth(o, -10, -10, 150, 130, 3, (x, y) => {
     if (hypot(x - o.hub.x, y - o.hub.y) < o.hub.r + 4) return -1;
@@ -404,6 +420,8 @@ function buildOverland(seed) {
     if (!o.aprons.some((a) => hypot(a.x - best[0][0], a.y - best[0][1]) < 3)) o.aprons.push({ x: best[0][0], y: best[0][1], r: Math.max(r.w, best[1].w) / 2 + 1.5 });
   }
   o.roads.push(...ROADS);
+  // the farms' fields (lost in pass 10's road rewrite, restored in 11d)
+  o.fields.push({ x0: 22, y0: 104, x1: 50, y1: 124, axis: 'x' }, { x0: 54, y0: 100, x1: 70, y1: 126, axis: 'y' }, { x0: 26, y0: 174, x1: 46, y1: 196, axis: 'y' });
   finalizeGround(o);
 
   // bridges where roads cross the river
@@ -492,6 +510,7 @@ function buildOverland(seed) {
   }
   scatter(o, trng, 0, 0, 260, 260, 10, (x, y) => (trng() < 0.01 && clear(x, y, 'rock_F') ? pick(trng, ROCKS) : null));
   forestRing(o, rng, 6);
+  wheat(o);
   // the undergrowth: thick at the woods' and forests' edges and along the river's banks, in patches in the meadows;
   // clear of every site and its way in
   const nearWater = (x, y) => { for (const [dx, dy] of [[0, 0], [2.5, 0], [-2.5, 0], [0, 2.5], [0, -2.5]]) { const g = groundAt(o, x + dx, y + dy).g; if (g === G.WATER || g === G.BANK) return true; } return false; };

diff --git a/src/render/daylight.js b/src/render/daylight.js
@@ -32,7 +32,7 @@ export const BLEND_S = 120;                       // two minutes of play from on
 // night keeps its dark.
 export const LOOKS = {
   dawn: { sun: [1.25, 0.88, 0.66], amb: [0.42, 0.40, 0.46], win: 0.45, lamp: 0.65, wisp: 0.8, bloom: 0.9, lift: 0.2, vig: 0.5, haze: 0.5, sat: 1.12 },
-  day: { sun: [1.62, 1.38, 1.02], amb: [0.62, 0.57, 0.50], win: 0.12, lamp: 0.3, wisp: 0.55, bloom: 0.75, lift: 0.18, vig: 0.32, haze: 0, sat: 1.28 },
+  day: { sun: [1.62, 1.38, 1.02], amb: [0.62, 0.57, 0.50], win: 0.12, lamp: 0.3, wisp: 0.55, bloom: 0.75, lift: 0.18, vig: 0.32, haze: 0, sat: 1.12 },
   dusk: { sun: [0.78, 0.55, 0.40], amb: [0.31, 0.29, 0.44], win: 1, lamp: 1, wisp: 1, bloom: 1, lift: 0, vig: 0.6, haze: 0.6, sat: 1.1 },
   night: { sun: [0.30, 0.37, 0.58], amb: [0.23, 0.24, 0.38], win: 1.3, lamp: 1.4, wisp: 1.45, bloom: 1.2, lift: 0.15, vig: 0.85, haze: 1, sat: 1 },
 };

diff --git a/src/render/palette.js b/src/render/palette.js
@@ -91,7 +91,7 @@ export const ELIT = {
   mud:    ['#110b07', '#1c130b', '#281b11', '#352417', '#452f1d'].map(_hx),  // mud pools
   pit:    ['#040306', '#08070c', '#0e0c14', '#16131e', '#1f1b29'].map(_hx),  // sunken pits
   // surface scenes (town / overland at dusk)
-  grass:  ['#12170f', '#1c2317', '#27301f', '#343e29', '#465036'].map(_hx),  // dusk meadow, olive-grey
+  grass:  ['#15170e', '#202414', '#2d331b', '#3c4323', '#50562c'].map(_hx),  // meadow, olive toward ochre (pass 11d: lime under the warm day)
   grass_fens:    ['#0f150f', '#161f18', '#1e2a20', '#28362a', '#374636'].map(_hx),  // sodden fen grass
   grass_reach:   ['#131110', '#1d1a17', '#27231f', '#332e28', '#433c34'].map(_hx),  // ash-dusted scrub
   grass_heights: ['#191c1d', '#242929', '#303736', '#414946', '#58605b'].map(_hx),  // frost-bitten turf
